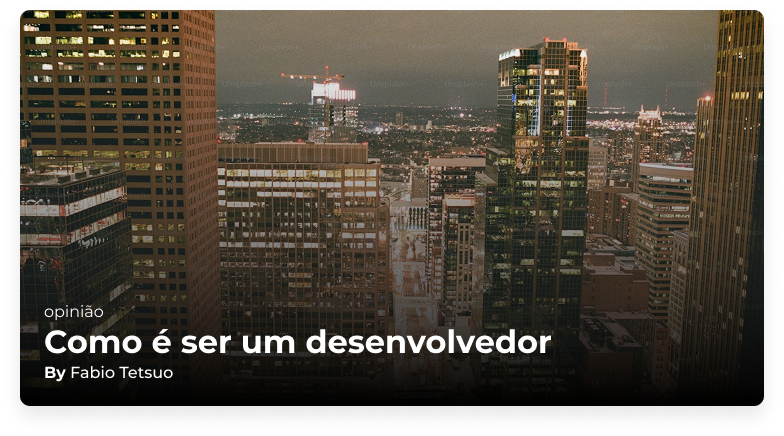
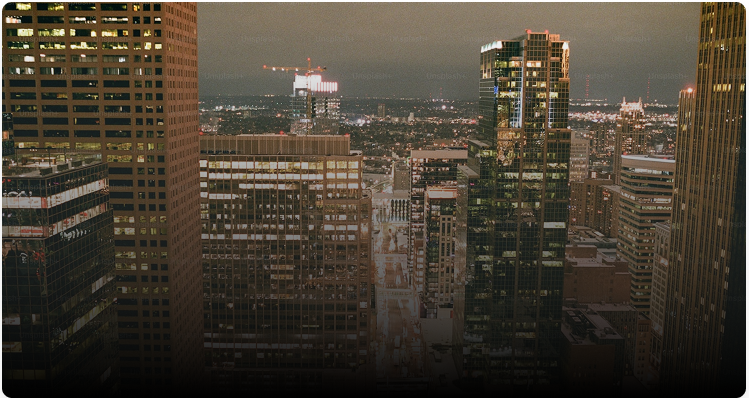
feat(main finalizado)

diff --git a/index.html b/index.html
@@ -13,5 +13,115 @@
                 <h1>The Dev News</h1>
             </div>
         </header>
+        <main>
+            <div class="container">
+                <section>
+                    <div class="wraper-banner">
+                        <img class="banner" src="imagens/banner.png" alt="banner">
+                        <div class="text-banner">
+                            <span>opinião</span>
+                            <h2>Como é ser um desenvolvedor</h2>
+                            <span><strong>By</strong> Fabio Tetsuo</span>
+                        </div>
+                    </div>
+                    <div class="title">
+                        <h2>Posts mais recentes</h2>
+                        <a href="#">Ver todos</a>
+                    </div>
+                    <div class="box-cards">
+                        <div class="card">
+                            <img src="imagens/desenvolvimento_mobile.png">
+                            <div class="content">
+                                <span>desenvolvimento</span>
+                                <h3>Desenvolvimento mobile</h3>
+                                <span><strong>By</strong> Fabio Tatsuo</span>
+                                <p>Lorem ipsum dolor sit amet consectetur. In vitae urna commodo amet congue integer dapibus. Interdum semper mauris convallis fusce enim odio. Vitae montes ridiculus felis.</p>
+                                <span>22 Agosto 2022</span>
+                            </div>
+                        </div>
+                        <div class="card">
+                            <img src="imagens/balancear.png">
+                            <div class="content">
+                                <span>saude</span>
+                                <h3>Balancear vida profissional e pessoal</h3>
+                                <span><strong>By</strong> Ridho Satriawan</span>
+                                <p>Lorem ipsum dolor sit amet consectetur. Et consectetur at consectetur sed nisl tempor.</p>
+                                <span>22 Agosto 2022</span>
+                            </div>
+                        </div>
+                        <div class="card">
+                            <img src="imagens/config_vscode.png">
+                            <div class="content">
+                                <span>desenvolvimento</span>
+                                <h3>Configurando VSCode</h3>
+                                <span><strong>By</strong> Fabio Tatsuo</span>
+                                <p>Lorem ipsum dolor sit amet consectetur. Erat interdum tortor ac sagittis id a etiam. Tellus vitae arcu dignissim massa aliquam vel tellus. Ipsum massa arcu nulla sed purus in ac.</p>
+                                <span>22 Agosto 2022</span>
+                            </div>
+                        </div>
+                        <div class="card">
+                            <img src="imagens/monitores.png">
+                            <div class="content">
+                                <span>produtividade</span>
+                                <h3>2 monitores ou 1 ultrawid?</h3>
+                                <span><strong>By</strong> Fulano da Silva</span>
+                                <p>Lorem ipsum dolor sit amet consectetur. Arcu tellus adipiscing sagittis tristique. Eget molestie posuere enim pretium venenatis nunc ligula donec a. Velit senectus amet nulla.</p>
+                                <span>22 Agosto 2022</span>
+                            </div>
+                        </div>
+                    </div>
+                </section>
+                <aside>
+                    <div class="title mini">
+                        <h2>Posts populares</h2>
+                    </div>
+                    <div class="box-mini-cards">
+                        <div class="minicard">
+                            <img src="imagens/desenvolvimento_atual.png">
+                            <div class="content">
+                                <h3>Desenvolvimento atual</h3>
+                                <span>22 Agosto 2022</span>
+                            </div>
+                        </div>
+                        <div class="minicard">
+                            <img src="imagens/gitlab.png">
+                            <div class="content">
+                                <h3>GitLab vs Github</h3>
+                                <span>22 Agosto 2022</span>
+                            </div>
+                        </div>
+                        <div class="minicard">
+                            <img src="imagens/cafe_atrapalha.png">
+                            <div class="content">
+                                <h3>Café atrapalha?</h3>
+                                <span>22 Agosto 2022</span>
+                            </div>
+                        </div>
+                    </div>
+                    <div class="title mini">
+                        <h2>Categorias</h2>
+                    </div>
+                    <ul>
+                        <li>
+                            <span>> saúde</span>
+                            <span>(1)</span>
+                        </li>
+                        <li>
+                            <span>> desenvolvimento</span>
+                            <span>(2)</span>
+                        </li>
+                        <li>
+                            <span>> produtividade</span>
+                            <span>(2)</span>
+                        </li>
+                        <li>
+                            <span>> opinião</span>
+                            <span>(1)</span>
+                        </li>
+                    </ul>
+                </aside>
+                
+            </div>
+        </main>
     </body>
 </html>

diff --git a/css/style.css b/css/style.css
@@ -17,7 +17,7 @@
     width: 100%;
     max-width: 1130px;
     margin: 0 auto;
-    
+    column-gap: 24px;
 }
 /* ******* */
 
@@ -27,5 +27,158 @@ header{
     background-color: var(--verde);
     color: white;
     padding: 13px;
+}
+/* ***** */
+
+/* section */
+main{
+    padding: 0 2%;
+    margin-top: 50px;
+}
+
+main .container{
+    display: flex;
+}
+
+section{
+    width: 100%;
+    max-width: 744px;
+}
+
+section .banner{
+    width: 100%;
+    margin-bottom: 25px;
+}
+
+.text-banner{
+    color: white;
+    position: absolute;
+    left: 24px;
+    top: calc(100% - 130px);
+}
+
+.text-banner h2{
+    margin: 1px 0;
+    font-size: 32px;
+}
+
+.wraper-banner{
+    position: relative;
+}
+
+.title{
+    width: 100%;
+    display: flex;
+    background-color: var(--verde);
+    color: white;
+    border-radius: 8px;
+    padding: 16px 24px;
+    justify-content: space-between;
+    align-items: center;
+}
+
+.title h2{
+    font-size: 20px;
+}
+
+.title a{
+    color: white;
+    font-size: 14px;
+}
+
+.box-cards{
+    margin: 11px 0 65px 0;
+    display: flex;
+    flex-wrap:wrap;
+    justify-content: space-between;
+}
+
+.box-cards .card{
+    max-width: 360px;
+    width: 100%;
+    margin-bottom: 24px;
+}
+
+.box-cards .card img{
+    max-width: 360px;
+    width: 100%;
+}
+
+.box-cards .card .content{
+    padding: 16px;
+    box-shadow: 0px 10px 20px 0px rgba(0, 0, 0, 0.103);
+    border-bottom-left-radius: 16px;
+    border-bottom-right-radius: 16px;
+    min-height: 220px;
+}
+
+.box-cards .card span:nth-of-type(1){
+    color: var(--verde);
+    font-size: 14px;
+}
+
+.box-cards .card h3{
+    font-size: 20px;
+    padding: 8px 0;
+}
+
+.box-cards .card span:nth-of-type(2),
+.box-cards .card span:nth-of-type(3){
+    color: var(--cinza);
+    font-size: 14px;
+}
+
+.box-cards .card p{
+    font-size: 14px;
+    padding: 8px 0;
+}
+
+/* ***** */
+
+/* aside */
+aside{
+    width: 100%;
+    max-width: 361px;
+}
+
+.mini{/*title minni*/
+    padding: 12px 24px;
+} 
+
+.minicard{
+    padding: 13px;
+    margin-top: 20px;
+    box-shadow: 0px 4px 4px 0px rgba(0, 0, 0, 0.253);
+    border-radius: 10px;
+    display: flex;
+    column-gap: 12px;
+}
+
+.minicard:last-of-type{
+    margin-bottom: 30px;
+}
+
+.minicard h3{
+    font-size: 14px;
+}
+
+.minicard span{
+    font-size: 12px;
+    color: var(--cinza);
+    margin-top: 8px;
+}
+
+aside ul{
+    margin-top: 14px;
+    list-style-type: none;
+    color: var(--cinza);
+    font-size: 16px;
+    font-weight: 500;
+}
+
+aside ul li{
+    display: flex;
+    justify-content: space-between;
+    margin-bottom: 14px;
 }
 /* ***** */

diff --git a/css/responsive.css b/css/responsive.css
@@ -1,8 +1,92 @@
-@media screen and (max-width: 425px){
-    /* header */
+
+@media screen and (min-width: 2300px){
+    .container{
+        max-width: 1920px;
+    }
+
+    section{
+        max-width: none;
+        width: 70%;
+    }
+
+    aside{
+        max-width: none;
+        width: 30%;
+    }
+}
+
+@media screen and (max-width: 1171px){
+    .box-cards .card{
+        max-width: 320px;
+    }
+
+    .box-cards .card .content{
+        min-height: 240px;
+    }
+}
+
+@media screen and (max-width: 1084px){
+    .box-cards .card{
+        max-width: 291px;
+    }
+
+    .box-cards .card .content{
+        min-height: 280px;
+    }
+}
+
+@media screen and (max-width: 1024px){
+    .text-banner h2{
+        font-size: 19px;
+    }
+    
+    .box-cards .card{
+        max-width: none;
+    }
+
+    .box-cards .card img{
+        max-width: none;
+    }
+}
+
+@media screen and (max-width: 768px){
     header h1{
         text-align: center;
         font-size: 24px;
     }
-    /* *** */
+    
+    .text-banner h2{
+        font-size: 24px;
+    }
+
+    main .container{
+        flex-direction: column;
+    }
+
+    aside{
+        max-width: none;
+    }
+
+    .box-cards{
+        margin: 11px 0 0px 0;
+    }
+}
+
+@media screen and (max-width: 500px){
+    .wraper-banner img.banner{
+        height: 396px;
+    }
+}
+
+@media screen and (max-width: 436px){
+    .text-banner{
+        top: calc(100% - 150px);
+    }
+}
+
+
+@media screen and (max-width: 370px){
+    .title h2{
+    font-size: 16px;
+}
 }
